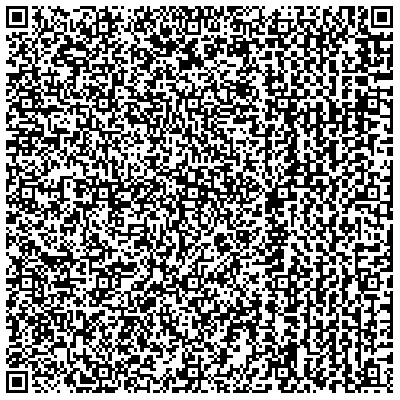
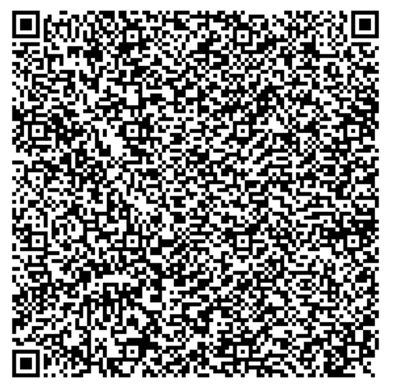
Update bitcoin psbt data

diff --git a/docs/integration/sign/bitcoin.md b/docs/integration/sign/bitcoin.md
@@ -59,15 +59,17 @@ An example of PSBT QR code
 |output1|bc1qmx85cfywqmj56z96lhpp8yf2e2qvpg620f2pa6|0.85|m/84'/0'/0'/1/0(change)|
 
 PSBT hex
-```shell
[1 lines of base64/hex data omitted]
+```
[1 lines of base64/hex data omitted]
 ```
 
 PSBT base64
-```shell
[1 lines of base64/hex data omitted]
 ```
-PSBT QR Code  
[1 lines of base64/hex data omitted]
+```
+
+PSBT QR Code
+
 ![](/_media/sign-psbt-single.png ':size=350')
 
 Example of multiple QR codes with the same PSBT above, given `maxFragmentLen` is `200`
@@ -75,10 +77,10 @@ Example of multiple QR codes with the same PSBT above, given `maxFragmentLen` is
 ![](/_media/sign-psbt-animated.gif ':size=300')
 
 ```swift
-qrCode.nextPart() // ur:crypto-psbt/1-2/lpadaocfadhfcyjobbwdwyhdpyhkadgujojkidjyzmadaejsaoaeaeaeadctmhkbaarsasttnsnyptolotbbjlmyzoctsovofrhdceqzbkenwzlkaddegogtmuadaeaeaeaezmzmzmzmaovsaxaeaeaeaeaeaecmaebbmefwlrcmpfykcmlrbdiovwjehdselbdtetrofxlnfrrtaaaeaeaeaeaecmaebbfwvdemjeclenfxotidfpatbbiabwdwkttagrcpfmaeaeaeaeaeadadctfesoaaaeaeaeaeaecmaebbcfdeiesnchsprkspkgdkrslydpkbrehtcwahkklbcpamaomouolpimlykgvegdlbbdnnoxde
-qrCode.nextPart() // ur:crypto-psbt/2-2/lpaoaocfadhfcyjobbwdwyhdpytdehuouyfmwpztltweenfrbbgwdepyeodndwbkuovtfrrlcswzfhnetddwaeaelaaeaeaelaaeaeaelaaeaeaeaeaeaeaeaecpamaxmwhphgpmgrplloensfptongtuegskpnehpgswmbagofllaehdtgttozeenfmpyplcsjokbwejzghaeaelaaeaeaelaaeaeaelaadaeaeaeckaeaeaeaeaecpaoaopeghcwsbldvwetgetychsbdldasttnpfjlwkknttmykbdywdfspldnkondwpktvecsjokbwejzghaeaelaaeaeaelaaeaeaelaadaeaeaectaeaeaeaejkluhpkt
-qrCode.nextPart() // ur:crypto-psbt/3-2/lpaxaocfadhfcyjobbwdwyhdpytdehuouyfmwpztltweenfrbbgwdepyeodndwbkuovtfrrlcswzfhnetddwaeaelaaeaeaelaaeaeaelaaeaeaeaeaeaeaeaecpamaxmwhphgpmgrplloensfptongtuegskpnehpgswmbagofllaehdtgttozeenfmpyplcsjokbwejzghaeaelaaeaeaelaaeaeaelaadaeaeaeckaeaeaeaeaecpaoaopeghcwsbldvwetgetychsbdldasttnpfjlwkknttmykbdywdfspldnkondwpktvecsjokbwejzghaeaelaaeaeaelaaeaeaelaadaeaeaectaeaeaeaemksrldcx
-qrCode.nextPart() // ur:crypto-psbt/4-2/lpaaaocfadhfcyjobbwdwyhdpyhkadgujojkidjyzmadaejsaoaeaeaeadctmhkbaarsasttnsnyptolotbbjlmyzoctsovofrhdceqzbkenwzlkaddegogtmuadaeaeaeaezmzmzmzmaovsaxaeaeaeaeaeaecmaebbmefwlrcmpfykcmlrbdiovwjehdselbdtetrofxlnfrrtaaaeaeaeaeaecmaebbfwvdemjeclenfxotidfpatbbiabwdwkttagrcpfmaeaeaeaeaeadadctfesoaaaeaeaeaeaecmaebbcfdeiesnchsprkspkgdkrslydpkbrehtcwahkklbcpamaomouolpimlykgvegdlbzocheooy
+qrCode.nextPart() // ur:crypto-psbt/1-2/lpadaocfadcycyiychntfxhdlghkadchjojkidjyzmadaejsaoaeaeaeadolvwdpbnylrnsejzfegtskmhmtinamwzylbytdzmrlcxrsbbcwfpzcbntebbimcpaeaeaeaeaezmzmzmzmaolamtmkaeaeaeaeaecmaebbjkatbwhgkslklnbgfpvawlmesfctkkeopkltfyfyfzzmbeahaeaeaeaecmaebbtamygsdkmnamvwgtayrdzcsabwmedrsglartotgeaeaeaeaeaeadadctaevyykahaeaeaeaecmaebbkeweihwsuovy
+qrCode.nextPart() // ur:crypto-psbt/2-2/lpaoaocfadcycyiychntfxhdlgkkknoyvsgtyackgrntspoxjelgrlwkpyplmecpamaxfptafwflzsrssaihaxhebkgyrfzssgfrihjonykskoinltinotenqzbbdlpkgrpmcswzfhnetdghaeaelaaeaeaelaaeaeaelaaeaeaeaeaeaeaeaeaeaecpaoaxpyjsjkaofllnrdbbchnseouyfrkguriaaeessafzldfzmtemeyfrhfbkgrcaaohfcswzfhnetdghaeaelaaeaeaelaaeaeaelaadaeaeaeaeaeaeaeaefhbgecjt
+qrCode.nextPart() // ur:crypto-psbt/3-2/lpaxaocfadcycyiychntfxhdlghkadchjojkidjyzmadaejsaoaeaeaeadolvwdpbnylrnsejzfegtskmhmtinamwzylbytdzmrlcxrsbbcwfpzcbntebbimcpaeaeaeaeaezmzmzmzmaolamtmkaeaeaeaeaecmaebbjkatbwhgkslklnbgfpvawlmesfctkkeopkltfyfyfzzmbeahaeaeaeaecmaebbtamygsdkmnamvwgtayrdzcsabwmedrsglartotgeaeaeaeaeaeadadctaevyykahaeaeaeaecmaebbkewestjkmefm
+qrCode.nextPart() // ur:crypto-psbt/4-2/lpaaaocfadcycyiychntfxhdlgkkknoyvsgtyackgrntspoxjelgrlwkpyplmecpamaxfptafwflzsrssaihaxhebkgyrfzssgfrihjonykskoinltinotenqzbbdlpkgrpmcswzfhnetdghaeaelaaeaeaelaaeaeaelaaeaeaeaeaeaeaeaeaeaecpaoaxpyjsjkaofllnrdbbchnseouyfrkguriaaeessafzldfzmtemeyfrhfbkgrcaaohfcswzfhnetdghaeaelaaeaeaelaaeaeaelaadaeaeaeaeaeaeaeaeaxstvwgl
 ```
 
 > [!ATTENTION]
@@ -129,7 +131,7 @@ An example of continues scanning and parsing accounts data, check [here](https:/
 
 The signed PSBT shown on Keystone hardware wallet.
 
-![](/_media/sign-psbt-signature.png ':size=300')
+![](/_media/sign-psbt-result.png ':size=300')
 
 > [!ATTENTION]
 > The signed PSBT might not always be able to encode in a single QR code,
